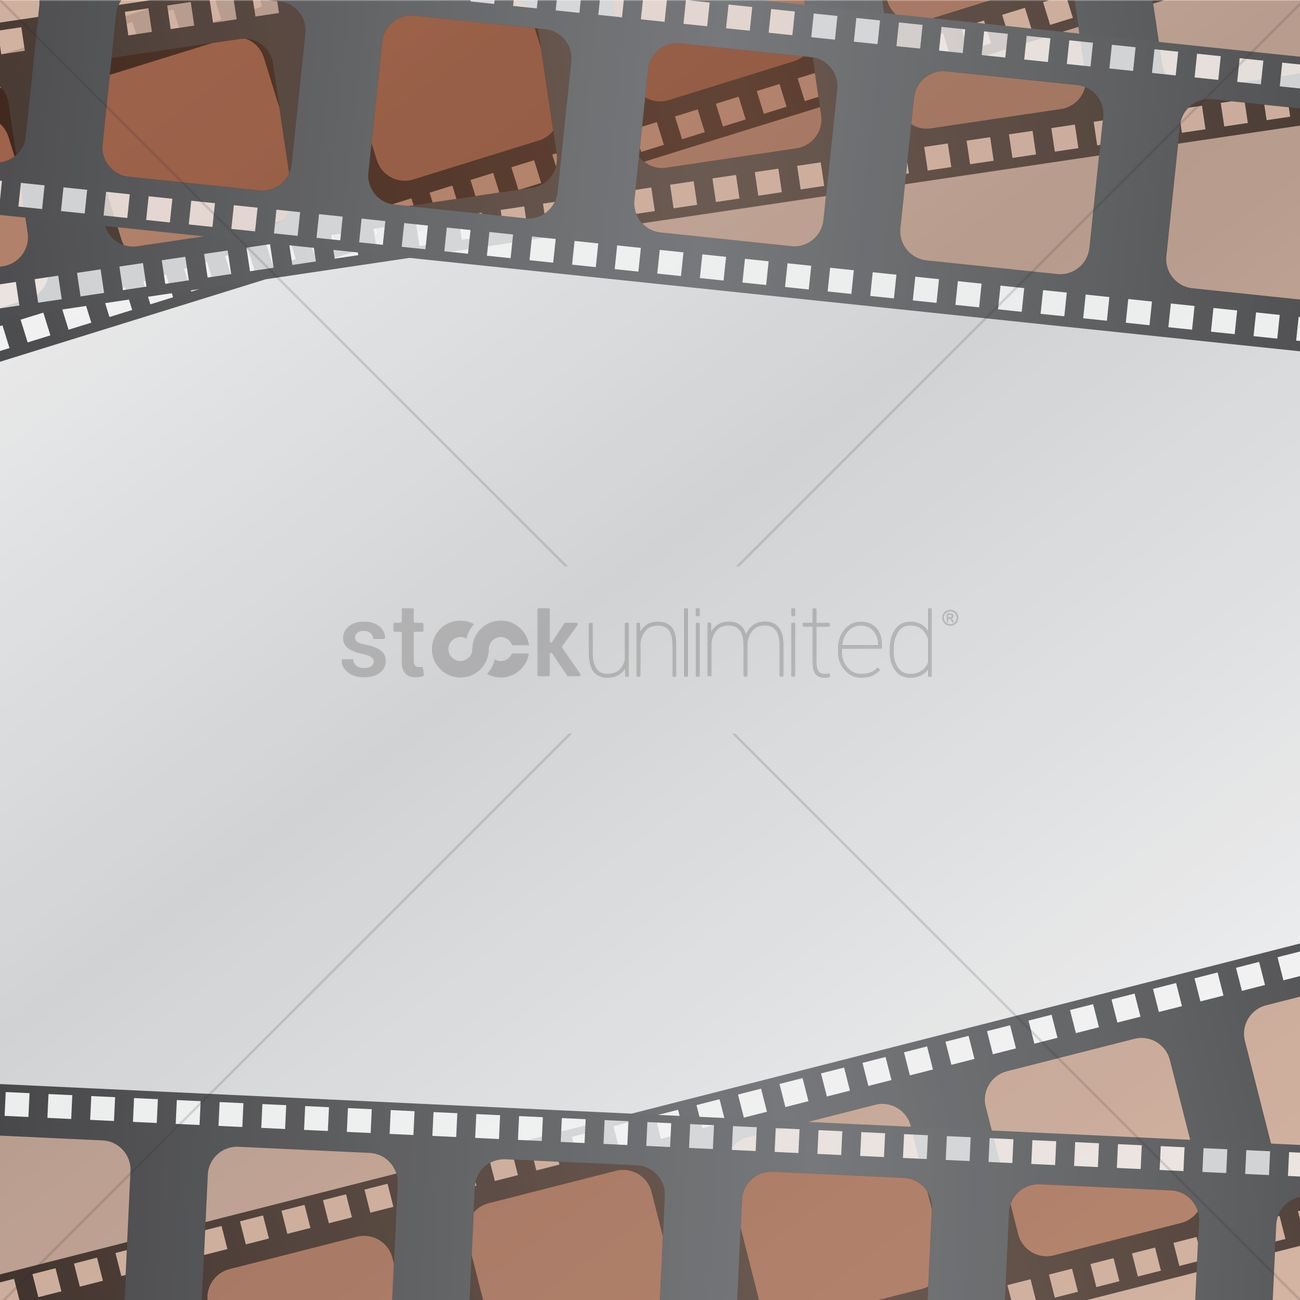
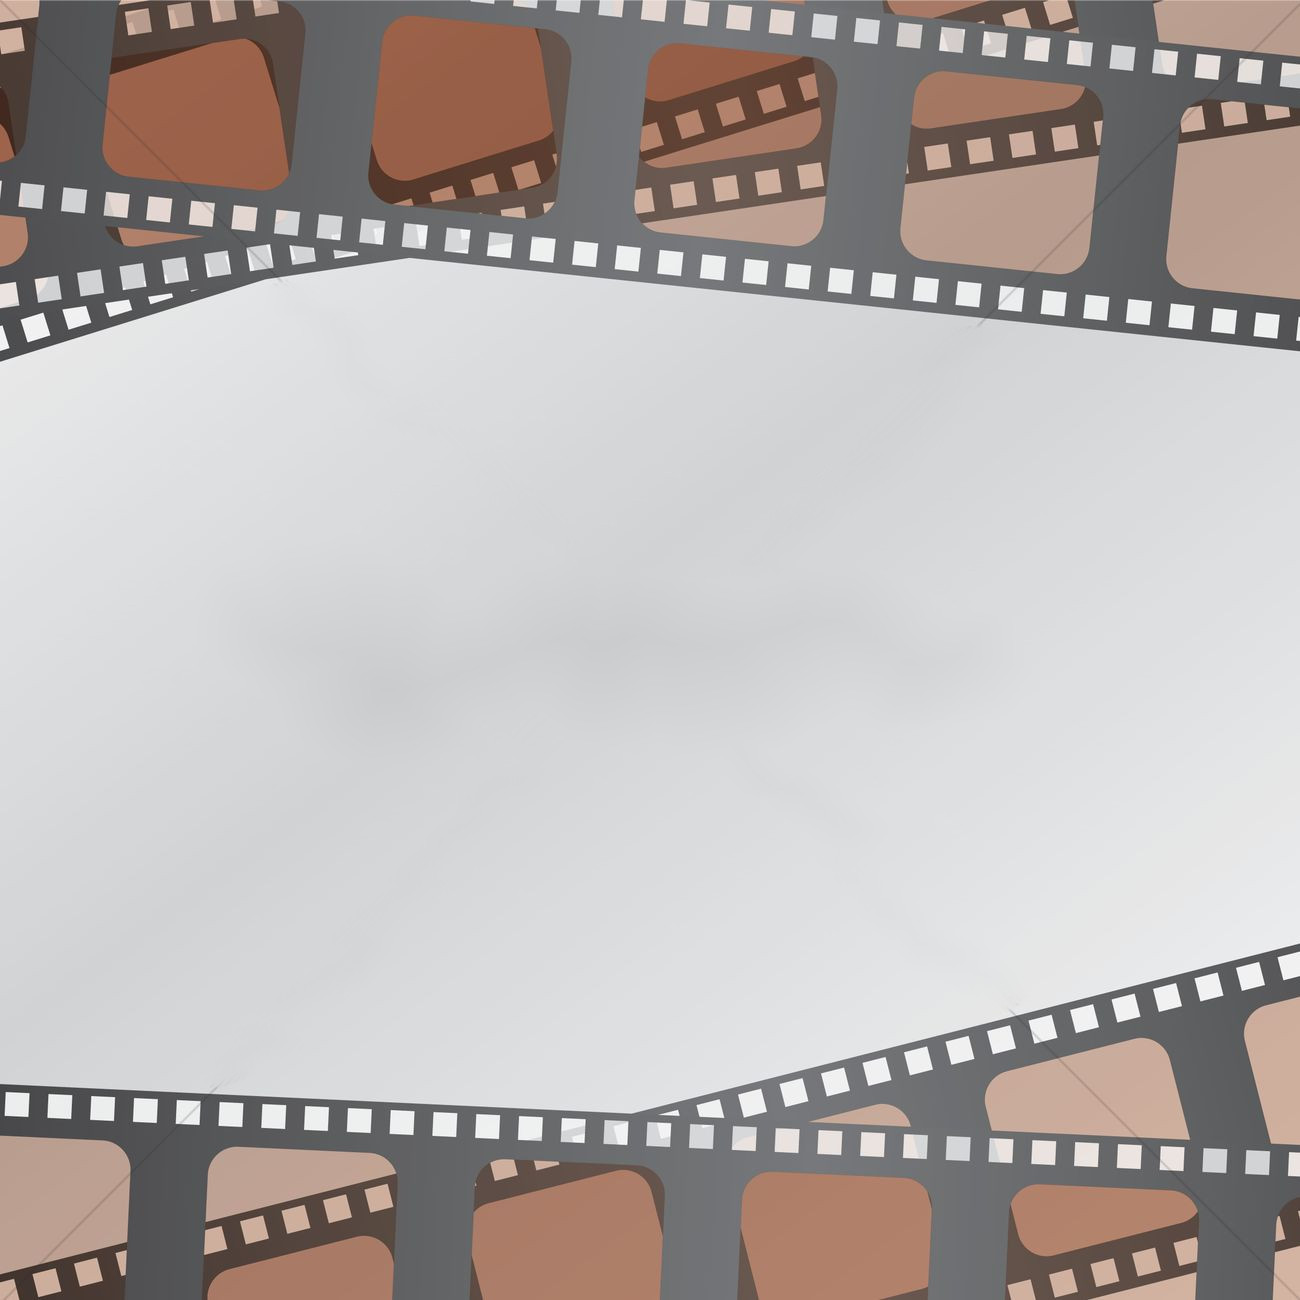
[TASK] added get reservation functionality, edited background image

Changed region(s): [[0.2462, 0.4615, 0.4923, 0.5231], [0.5231, 0.4615, 0.7077, 0.5231], [0.7077, 0.4615, 0.7385, 0.4923]]

diff --git a/myReservation.php b/myReservation.php
@@ -18,68 +18,28 @@
     </button>
     <div class="collapse navbar-collapse" id="navbarNavAltMarkup">
         <div class="navbar-nav">
-            <a class="nav-item nav-link active" href="currentMovies.php">Aktuell im Kino</a>
+            <a class="nav-item nav-link" href="currentMovies.php">Aktuell im Kino</a>
         </div>
         <div class="navbar-nav">
-            <a class="nav-item nav-link" href="myReservation.php">Meine Reservation</a>
+            <a class="nav-item nav-link active" href="myReservation.php">Meine Reservation</a>
         </div>
     </div>
 </nav>
 
 <div class="container">
-    <div class="col">
-        <?php
-
-        require 'Movie.php';
-        require 'queryMethods.php';
-
-        $mysqli = connectDB();
-
-        list($movies, $movieTitles) = Movie::getMovies(['Harry Potter', 'Hunger games', 'Thor', 'Spider-man', 'Transformers', 'It', 'The matrix', 'Finding nemo', 'Toy story']);
-
-        for ($i = 0; $i < count($movies); $i++) {
-
-            createMovie($mysqli, $movies, $i);
-
-            if ($i % 3 == 0) {
-                echo "<div class=\"row\">
-            <div class=\"card-deck mb-5\">";
-            }
-
-            printMovie($movies, $movieTitles, $i);
-            printShow($mysqli, $movies, $movieTitles, $i);
-
-            if (($i + 1) % 3 == 0) {
-                echo "</div></div>";
-            }
-        }
-        createRooms($mysqli);
-        createRows($mysqli);
-        createSeats($mysqli);
-        $mysqli->close();
-        ?>
+    <div class="jumbotron bg-dark mt-4">
+        <h1 class="display-3 text-white">Meine Reservation</h1>
+        <p class="lead text-white">Hier können Sie mithilfe Ihrer Reservationsnummer, Informationen bezüglich Ihrer Reservation abrufen.</p>
+        <form accept-charset="UTF-8" action="" method="GET">
+            <div class="form-group">
+                <input type="number" class="form-control" id="reservationId" placeholder="Reservationsnummer">
+                <small class="form-text text-muted">Ihre Reservationsnummer befindet sich im Mail, welches wir Ihnen nach der Reservation geschickt haben.</small>
+            </div>
+            <button type="submit" class="btn btn-primary">absenden</button>
+        </form>
     </div>
 </div>
 </body>
-<script>
-    /**
-     *
-     * @param movie
-     */
-    function showShows(movie) {
-        $(movie).find(".card-body").addClass("d-none");
-        $(movie).find(".list-group").removeClass("d-none");
-    }
-
-    /**
-     *
-     * @param movie
-     */
-    function showInfo(movie) {
-        $(movie).find(".list-group").addClass("d-none");
-        $(movie).find(".card-body").removeClass("d-none");
-    }
-</script>
 <script src="https://code.jquery.com/jquery-3.3.1.slim.min.js"
         integrity="sha384-q8i/X+965DzO0rT7abK41JStQIAqVgRVzpbzo5smXKp4YfRvH+8abtTE1Pi6jizo"
         crossorigin="anonymous"></script>

diff --git a/getReservation.php b/getReservation.php
@@ -1,0 +1,18 @@
+<?php
+
+require 'queryMethods.php';
+if (isset($_POST['reservationId']) && filter_var($_POST['email'], FILTER_SANITIZE_NUMBER_INT)) {
+
+    $reservationId = filter_var($_POST['firstname'], FILTER_SANITIZE_NUMBER_INT);
+
+    $mysqli = connectDB();
+
+    $getReservationQuery = "SELECT * FROM danie298_kinobuchung.show INNER JOIN reservation ON reservation.show_idshow = danie298_kinobuchung.show.idshow WHERE reservation.idreservation = $reservationId;" ;
+
+    $reservation = $mysqli->query($getReservationQuery);
+
+    if ($reservation) {
+        $reservation = $reservation->fetch_assoc();
+        var_dump($reservation);
+    }
+}

diff --git a/index.php b/index.php
@@ -18,6 +18,9 @@
         <div class="navbar-nav">
             <a class="nav-item nav-link" href="currentMovies.php">Aktuell im Kino</a>
         </div>
+        <div class="navbar-nav">
+            <a class="nav-item nav-link" href="myReservation.php">Meine Reservation</a>
+        </div>
     </div>
 </nav>
 
